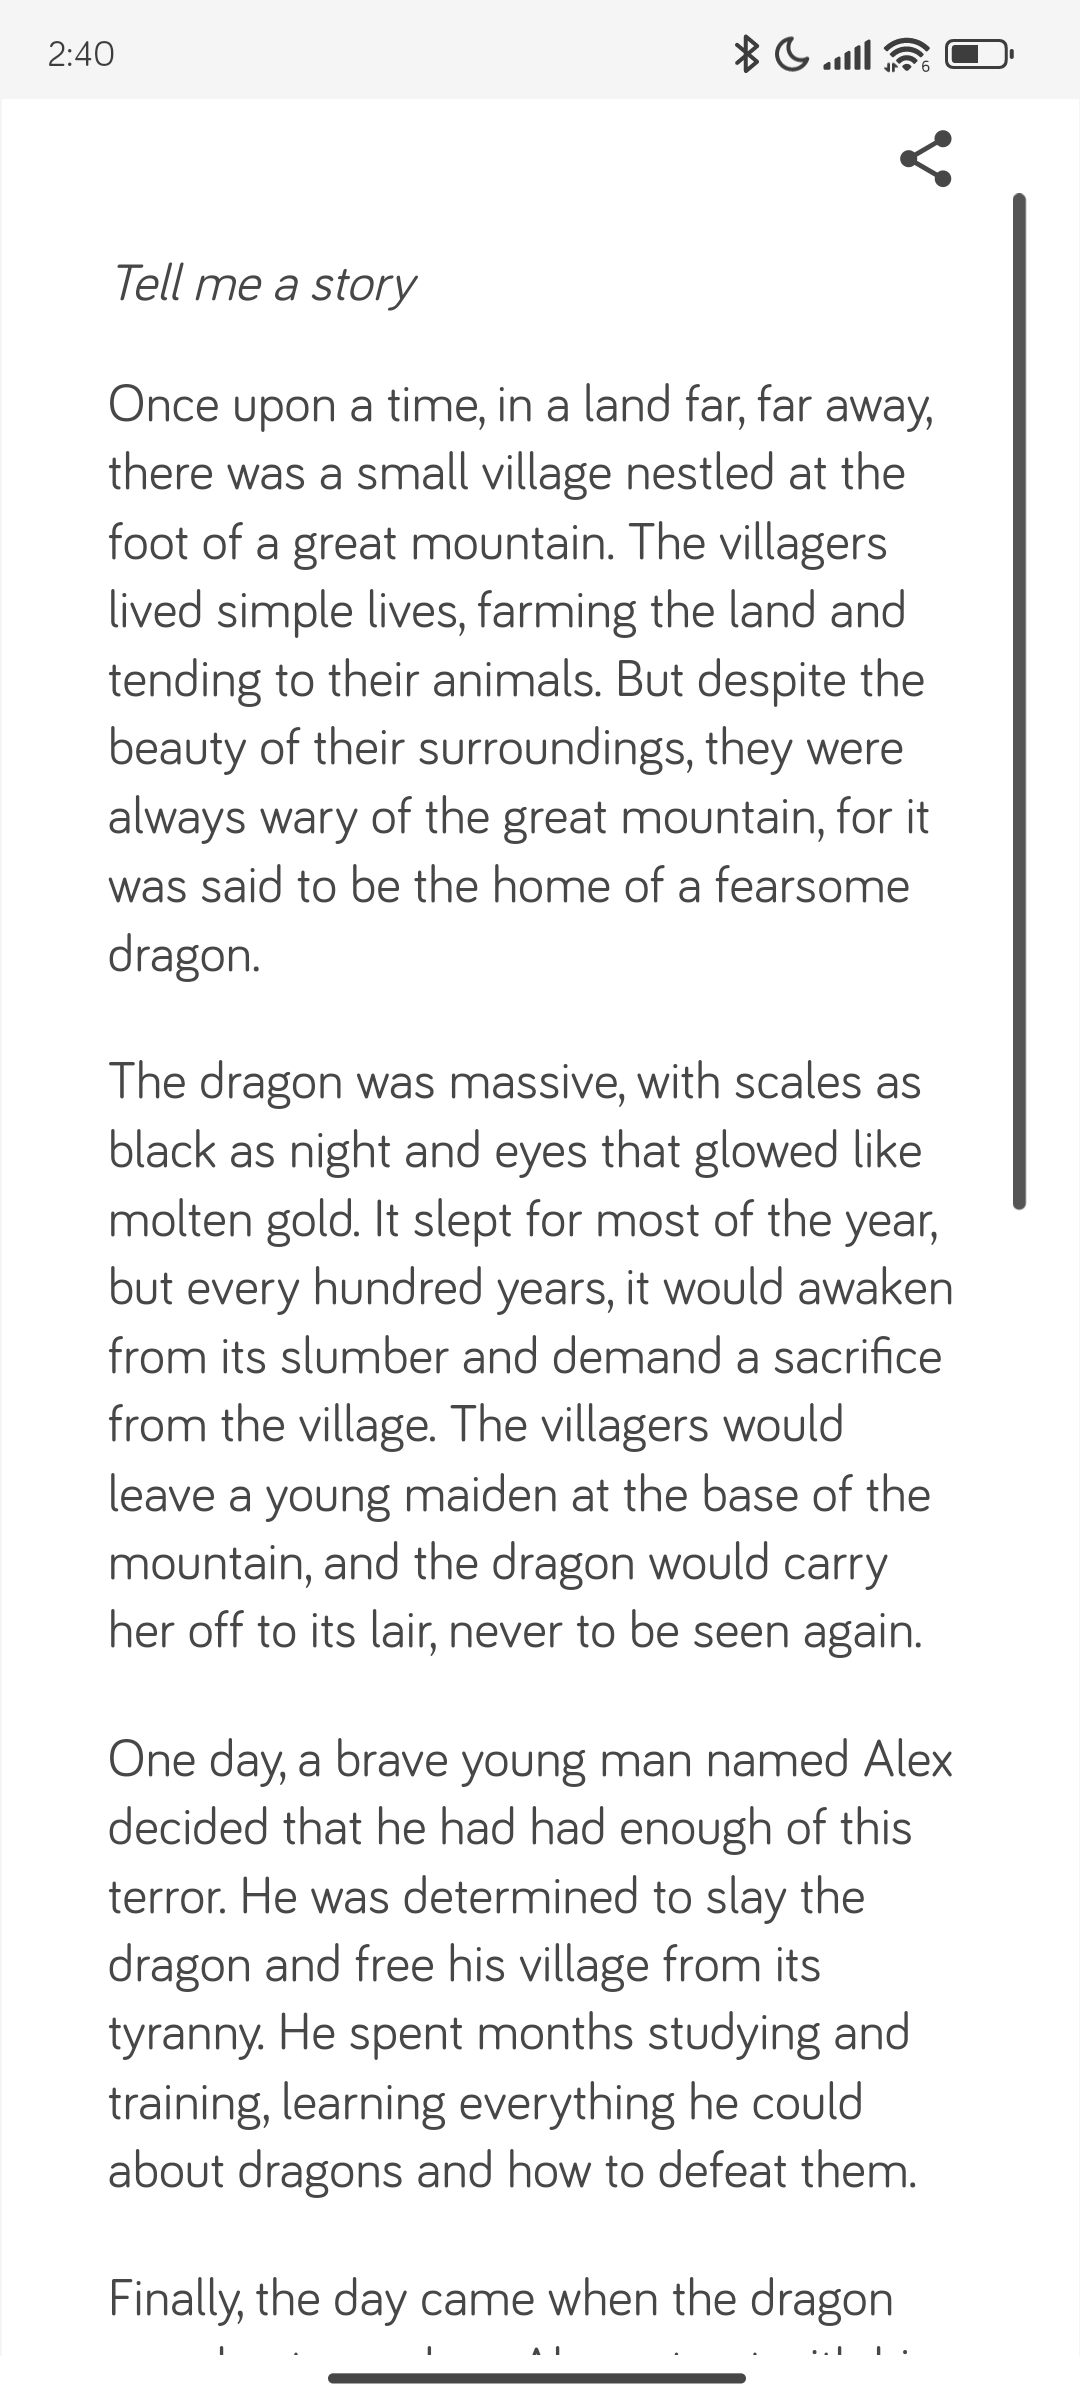
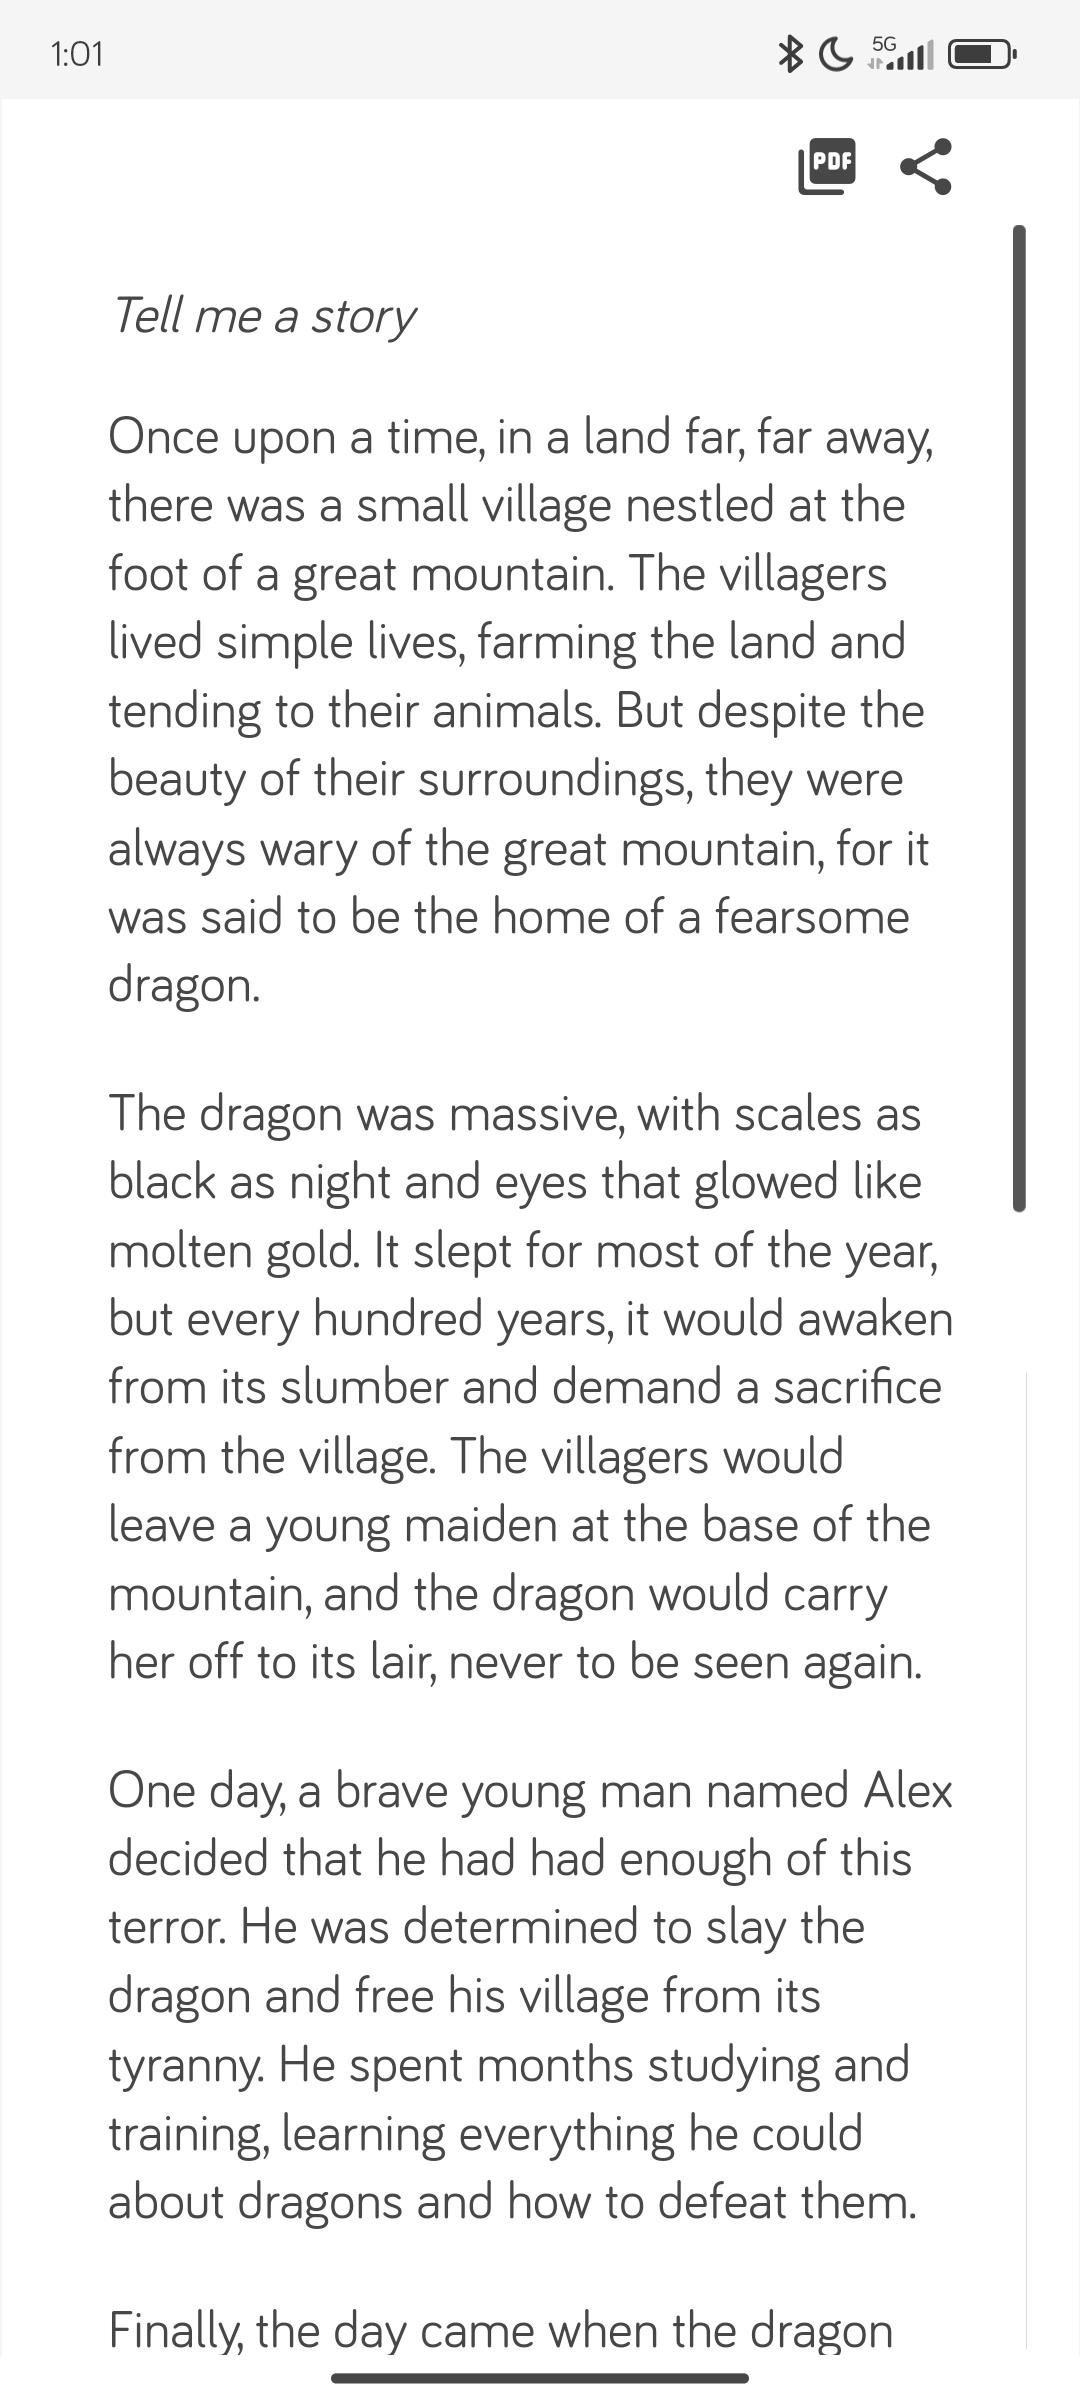
pdf-button

diff --git a/client/js/scale.min.js b/client/js/scale.min.js
@@ -1,1 +1,1 @@
-(!0===window.navigator.standalone||window.matchMedia("(display-mode: standalone)").matches)&&document.addEventListener("dblclick",(function(event){if(null!==event.target.closest(".conversation")){const content=event.target.closest(".conversation"),currentScale=window.getComputedStyle(content).transform,scaleMatrix=new WebKitCSSMatrix(currentScale),scaleX=scaleMatrix.a,scaleY=scaleMatrix.d;1===scaleX&&1===scaleY?(content.style.transform="scaleX(1.2) scaleY(1.2)",content.classList.add("enlarged")):(content.style.transform="scaleX(1) scaleY(1)",content.classList.remove("enlarged"))}}));const shareButton=document.getElementById("share-button");navigator.share?shareButton.addEventListener("click",(async()=>{try{const contentElements=document.querySelectorAll(".content");let text="";for(let element of contentElements)text+=element.textContent+"\n";await navigator.clipboard.writeText(text),await navigator.share({title:"FreeGPT",text:text})}catch(error){console.error("Error sharing content",error)}})):shareButton.style.display="none";const pdfButton=document.getElementById("pdf-button");pdfButton.addEventListener("click",(()=>{try{const contentElements=document.querySelectorAll(".content");let text="";for(let element of contentElements){text+=element.textContent.replace(/\t/g,"").replace(/content_copycontent_copy/g,"").replace(/content_copy/g,"").replace(/^\s+/gm,"")+"\n"}const pdf=new jspdf.jsPDF;pdf.setFontSize(12);const lines=pdf.splitTextToSize(text,pdf.internal.pageSize.width-20);let currentPage=0;for(let line of lines)pdf.text(line,10,10+10*currentPage),currentPage++,10*currentPage>=pdf.internal.pageSize.height&&(pdf.addPage(),currentPage=0);pdf.save("FreeGPT.pdf")}catch(error){console.error("Error printing content",error)}}));
+(!0===window.navigator.standalone||window.matchMedia("(display-mode: standalone)").matches)&&document.addEventListener("dblclick",(function(event){if(null!==event.target.closest(".conversation")){const content=event.target.closest(".conversation"),currentScale=window.getComputedStyle(content).transform,scaleMatrix=new WebKitCSSMatrix(currentScale),scaleX=scaleMatrix.a,scaleY=scaleMatrix.d;1===scaleX&&1===scaleY?(content.style.transform="scaleX(1.2) scaleY(1.2)",content.classList.add("enlarged")):(content.style.transform="scaleX(1) scaleY(1)",content.classList.remove("enlarged"))}}));const shareButton=document.getElementById("share-button"),pdfButton=document.getElementById("pdf-button");navigator.share?(shareButton.addEventListener("click",(async()=>{try{const contentElements=document.querySelectorAll(".content");let text="";for(let element of contentElements)text+=element.textContent+"\n";await navigator.clipboard.writeText(text),await navigator.share({title:"FreeGPT",text:text})}catch(error){console.error("Error sharing content",error)}})),pdfButton.addEventListener("click",(()=>{try{const contentElements=document.querySelectorAll(".content");let text="";for(let element of contentElements){text+=element.textContent.replace(/\t/g,"").replace(/content_copycontent_copy/g,"").replace(/content_copy/g,"").replace(/^\s+/gm,"")+"\n"}const pdf=new jspdf.jsPDF;pdf.setFontSize(12);const lines=pdf.splitTextToSize(text,pdf.internal.pageSize.width-20);let currentPage=0;for(let line of lines)pdf.text(line,10,10+10*currentPage),currentPage++,10*currentPage>=pdf.internal.pageSize.height&&(pdf.addPage(),currentPage=0);pdf.save("FreeGPT.pdf")}catch(error){console.error("Error printing content",error)}}))):shareButton.style.display="none";

diff --git a/client/js/scale.js b/client/js/scale.js
@@ -19,6 +19,7 @@ if (window.navigator.standalone === true || window.matchMedia('(display-mode: st
 }
 
 const shareButton = document.getElementById("share-button");
+const pdfButton = document.getElementById("pdf-button");
 
 if (navigator.share) {  
   shareButton.addEventListener("click", async () => {
@@ -37,11 +38,6 @@ if (navigator.share) {
         console.error("Error sharing content", error);
     }
   });
-} else {
-  shareButton.style.display = "none";
-}
-
-const pdfButton = document.getElementById("pdf-button");
 
 pdfButton.addEventListener("click", () => {
   try {
@@ -70,9 +66,6 @@ pdfButton.addEventListener("click", () => {
   }
 });
 
-
-
-
-
-
-
+} else {
+  shareButton.style.display = "none";
+}

diff --git a/README.md b/README.md
@@ -30,10 +30,12 @@ Reader mode in PWA
 ## Features 📢
 - Client runs also as PWA
 - Reader mode by double tap in PWA
-- code clean up
+- Save conversation as pdf from reader mode
+- Share conversation from reader mode
 - Awesomefont replaced with material icons
 - light/dark theme follows the system
 - 3rd party sources stored local
+- code clean up
 - flask-compress
 - orjson
 
